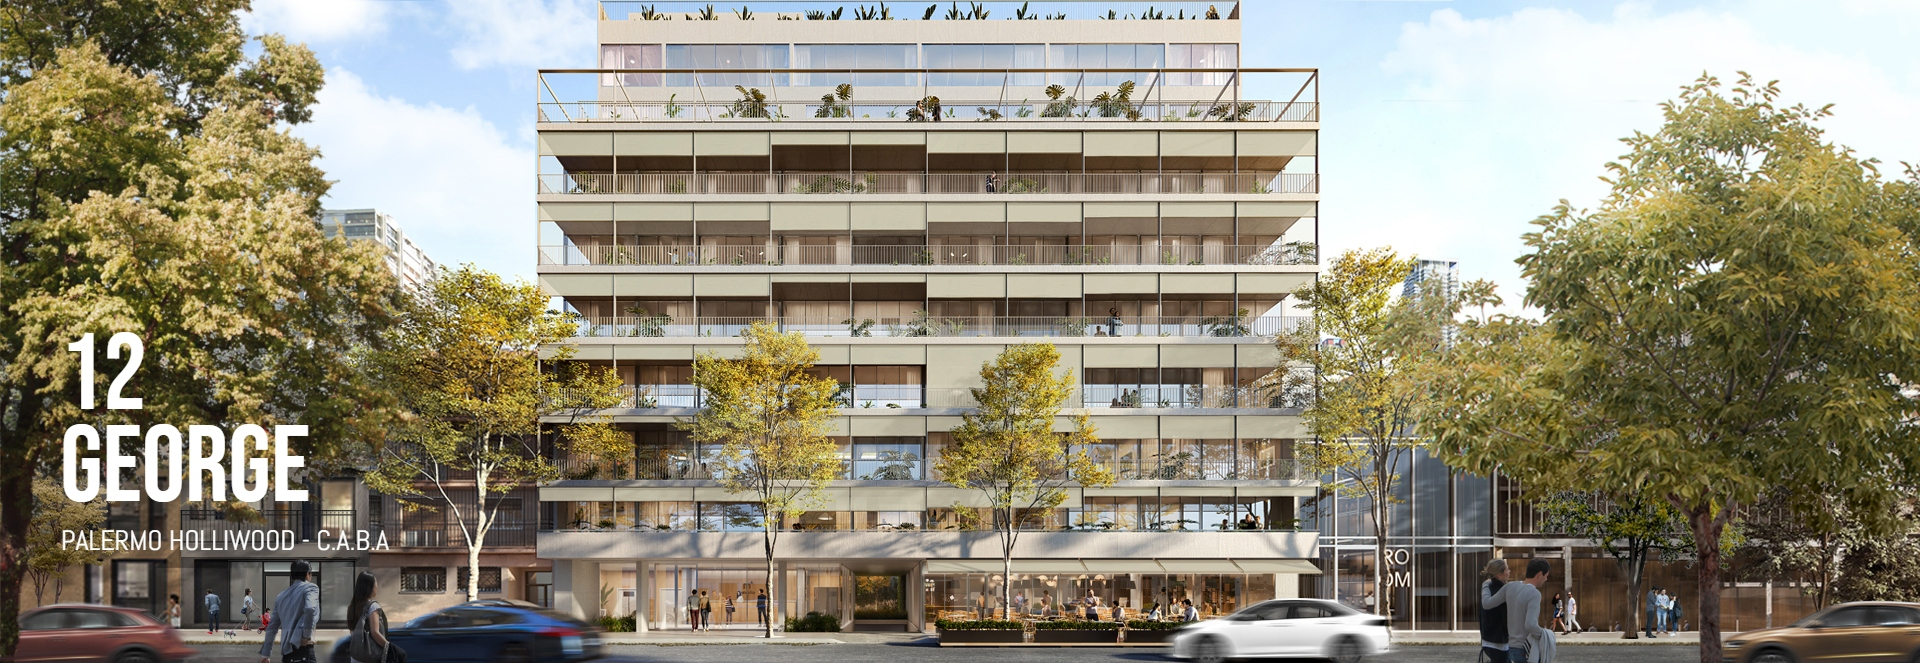
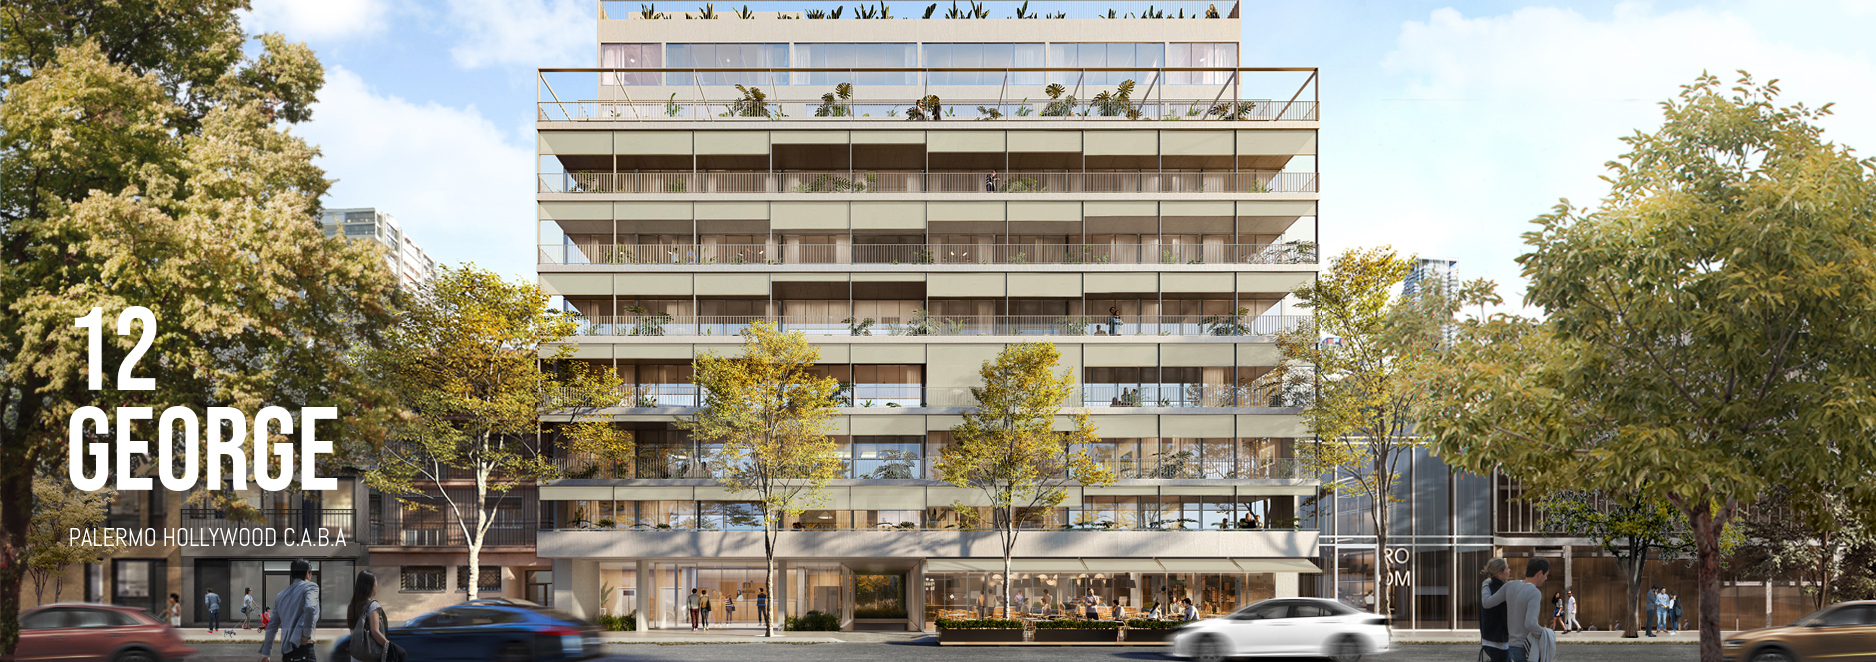
finalGI

diff --git a/pagina.html b/pagina.html
@@ -50,7 +50,7 @@
         <div class="box">
             <img src="assets/img/12g.jpg" height="200px">
             <h2>12 George</h2>
-            <p>Lujoso departamento de 2 dormitorios y 2 baños en Palermo Holliwood.</p>
+            <p>Lujoso departamento de 2 dormitorios y 2 baños en Palermo Hollywood.</p>
             <h3>US$ 1.148.300</h3>
           
         </div>
@@ -79,21 +79,21 @@
         <div class="box">
             <img src="assets/img/pilar.jpg" height="200px">
             <h2>Casa Pilar</h2>
-            <p>Inmueble en venta ubicado en Pilar, GBA Norte de 1000m2. Tiene 4 Dormitorios, 6 baños y 1 cochera cubierta.</p>
+            <p>Inmueble en venta ubicado en Pilar, GBA Norte de 1000m2. Tiene 4 dormitorios, 6 baños y 1 cochera cubierta.</p>
             <h3>US$ 4.000.000</h3>
             
         </div>
         <div class="box">
             <img src="assets/img/leloir.jpg" height="200px">
             <h2>Casa Parque Leroir</h2>
-            <p>Casa ubicada en Parque Leroir, GBA Oeste de 750m2. Tiene 4 Dormitorios, 6 baños y 4 cocheras.</p>
+            <p>Casa ubicada en Parque Leroir, GBA Oeste de 750m2. Tiene 4 dormitorios, 6 baños y 4 cocheras.</p>
             <h3>US$ 2.500.000</h3>
           
         </div>
         <div class="box">
             <img src="assets/img/la-plata.jpg" height="200px">
             <h2>Casa en La Plata</h2>
-            <p>Inmueble a estrenar en La Plata, GBA Sur. Tiene 4 Dormitorios, 4 baños y 2 cocheras.</p>
+            <p>Inmueble a estrenar en La Plata, GBA Sur. Tiene 4 dormitorios, 4 baños y 2 cocheras.</p>
             <h3>US$ 2.000.000</h3>
             
         </div>
@@ -152,9 +152,9 @@
             <img src="assets/img/logo.png" alt="Imagen de Producto" height="120px">
         </picture>
         <picture id="redes">
-            <img src="assets/img/instagram (2).png" alt="">
-            <img src="assets/img/facebook (2).png" alt="">
-            <img src="assets/img/linkedin.png" alt="">
+            <img src="assets/img/instagram (2).png" class="instagram" alt="">
+            <img src="assets/img/facebook (2).png" class="facebook" alt="">
+            <img src="assets/img/linkedin.png" class="in" alt="">
         </picture>
     </div>
     <div id="copyright"> <p>©Copyright 2050 by MirkoPicazo. All rights reversed.</p></div>

diff --git a/flexbox.css b/flexbox.css
@@ -134,3 +134,12 @@ footer {
     margin-top: 100px;
     
 }
+.instagram{
+    padding: 5px;
+}
+.facebook{
+    padding: 5px;
+}
+.in{
+    padding: 5px;
+}
